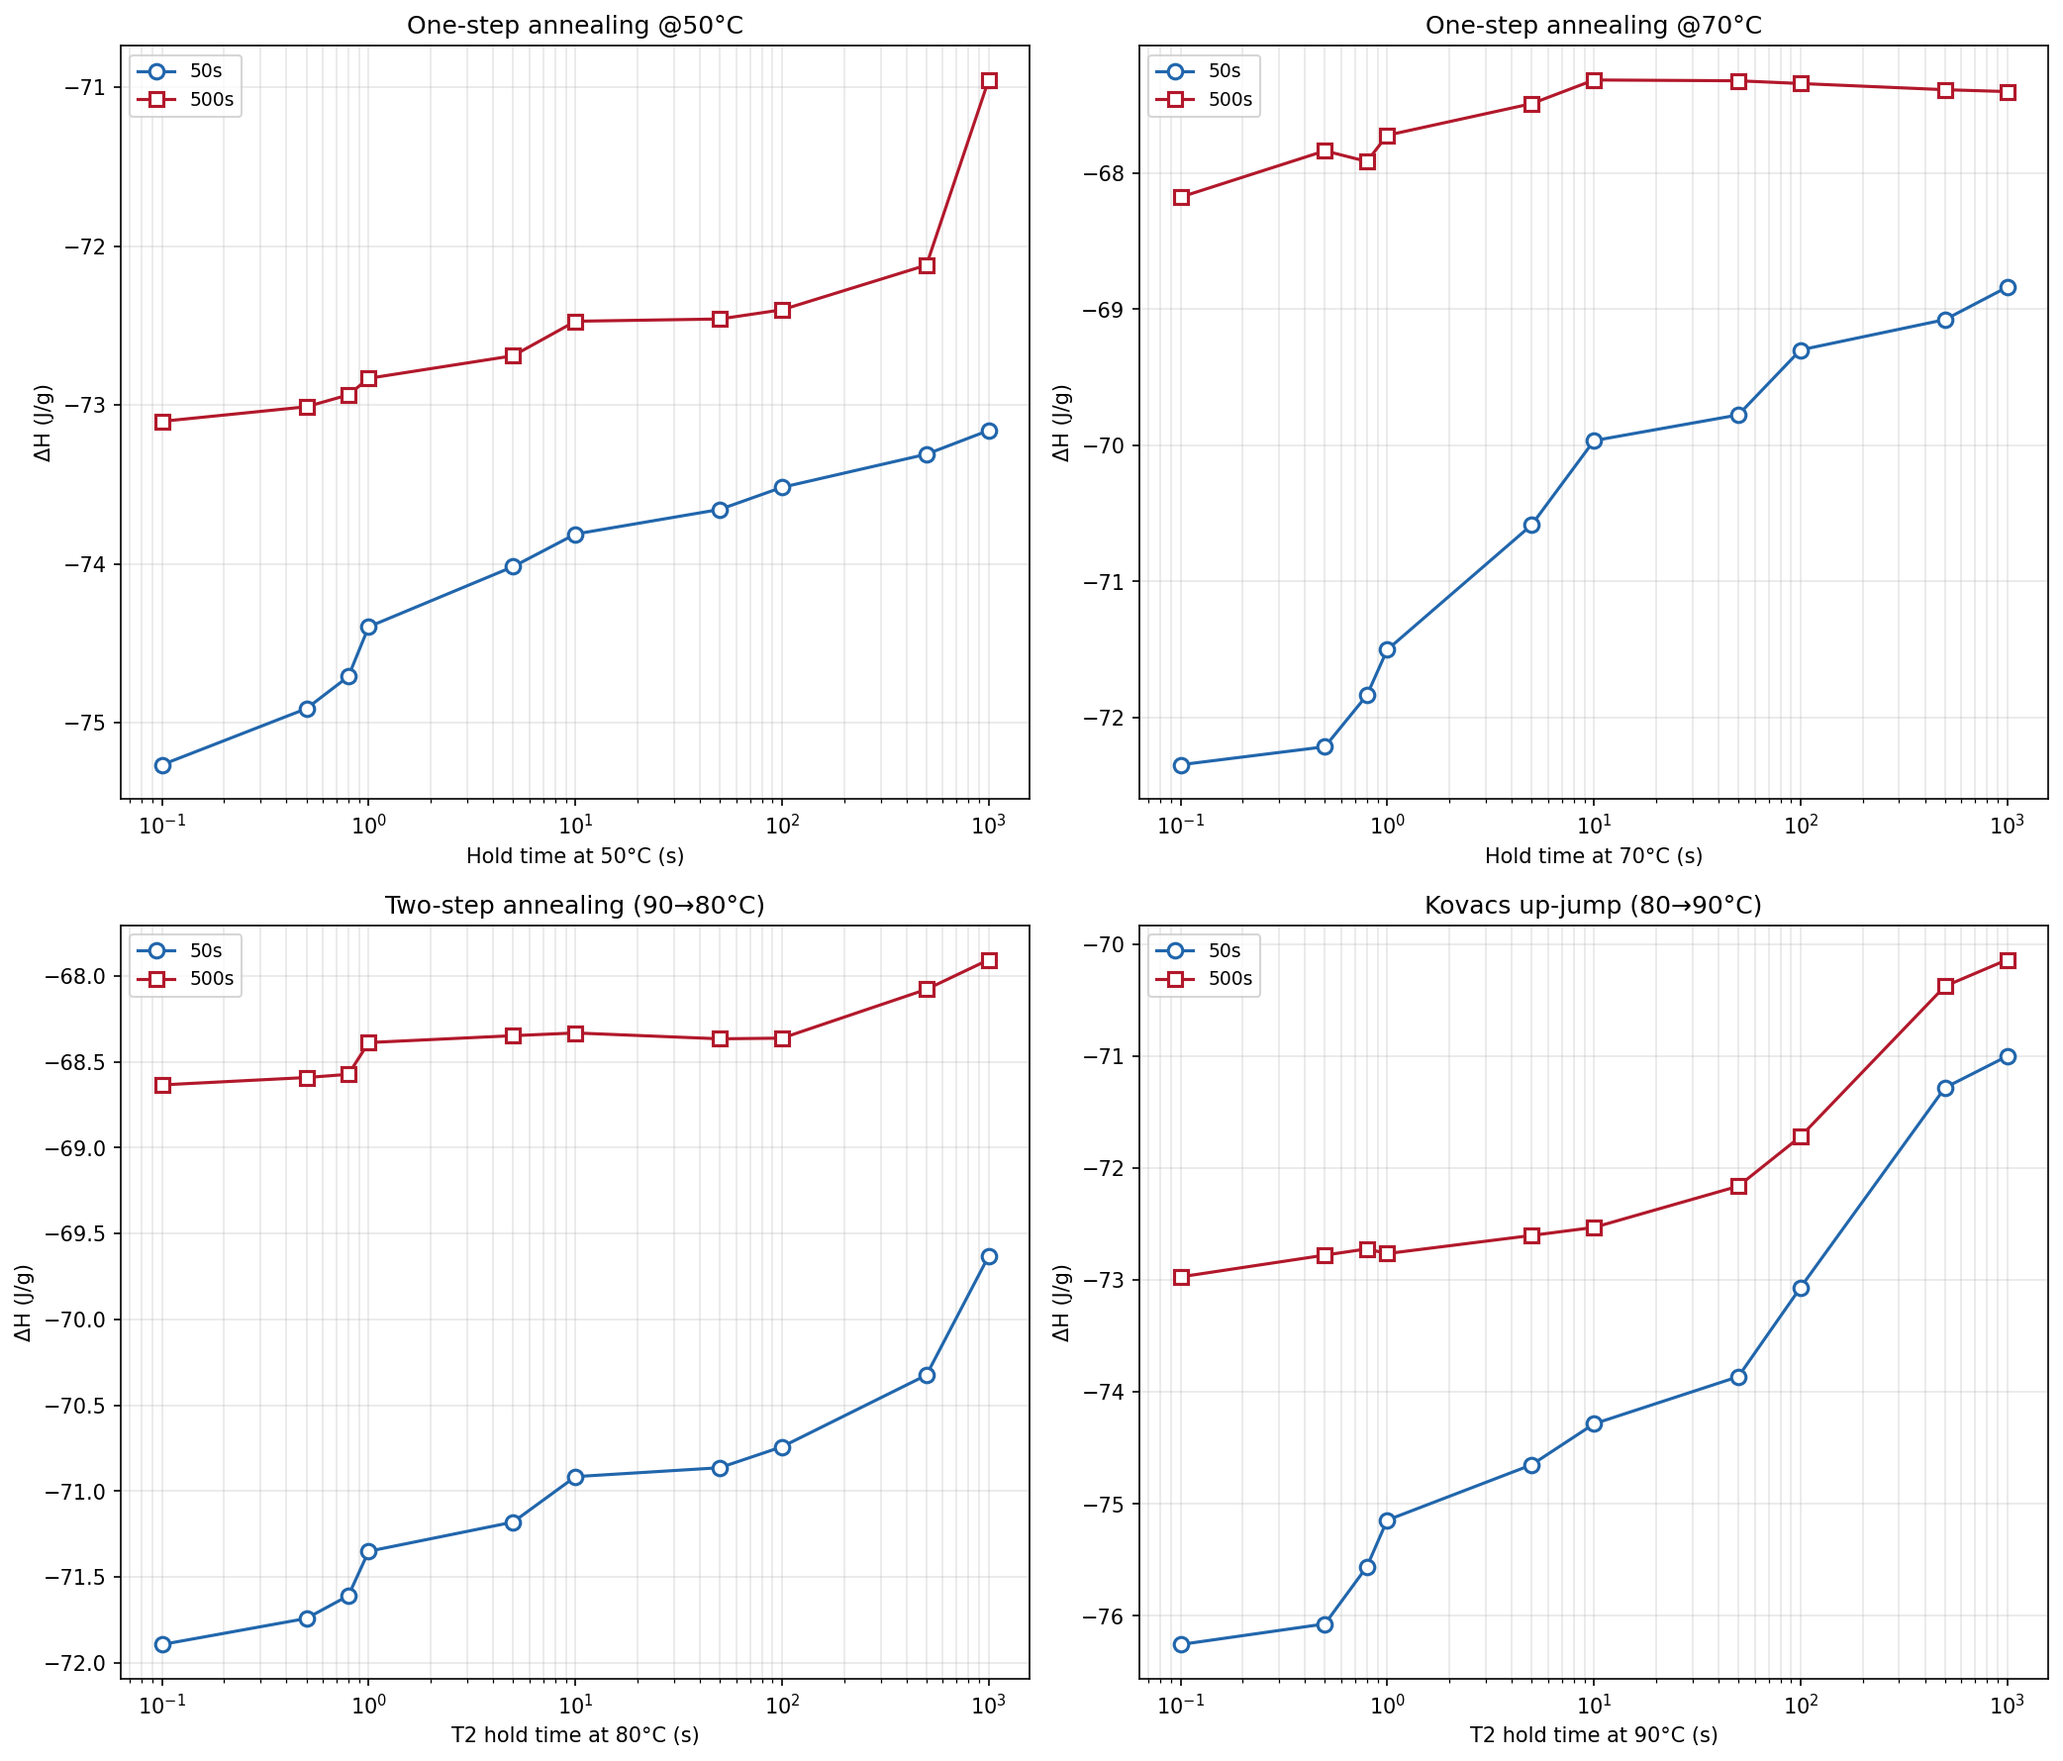
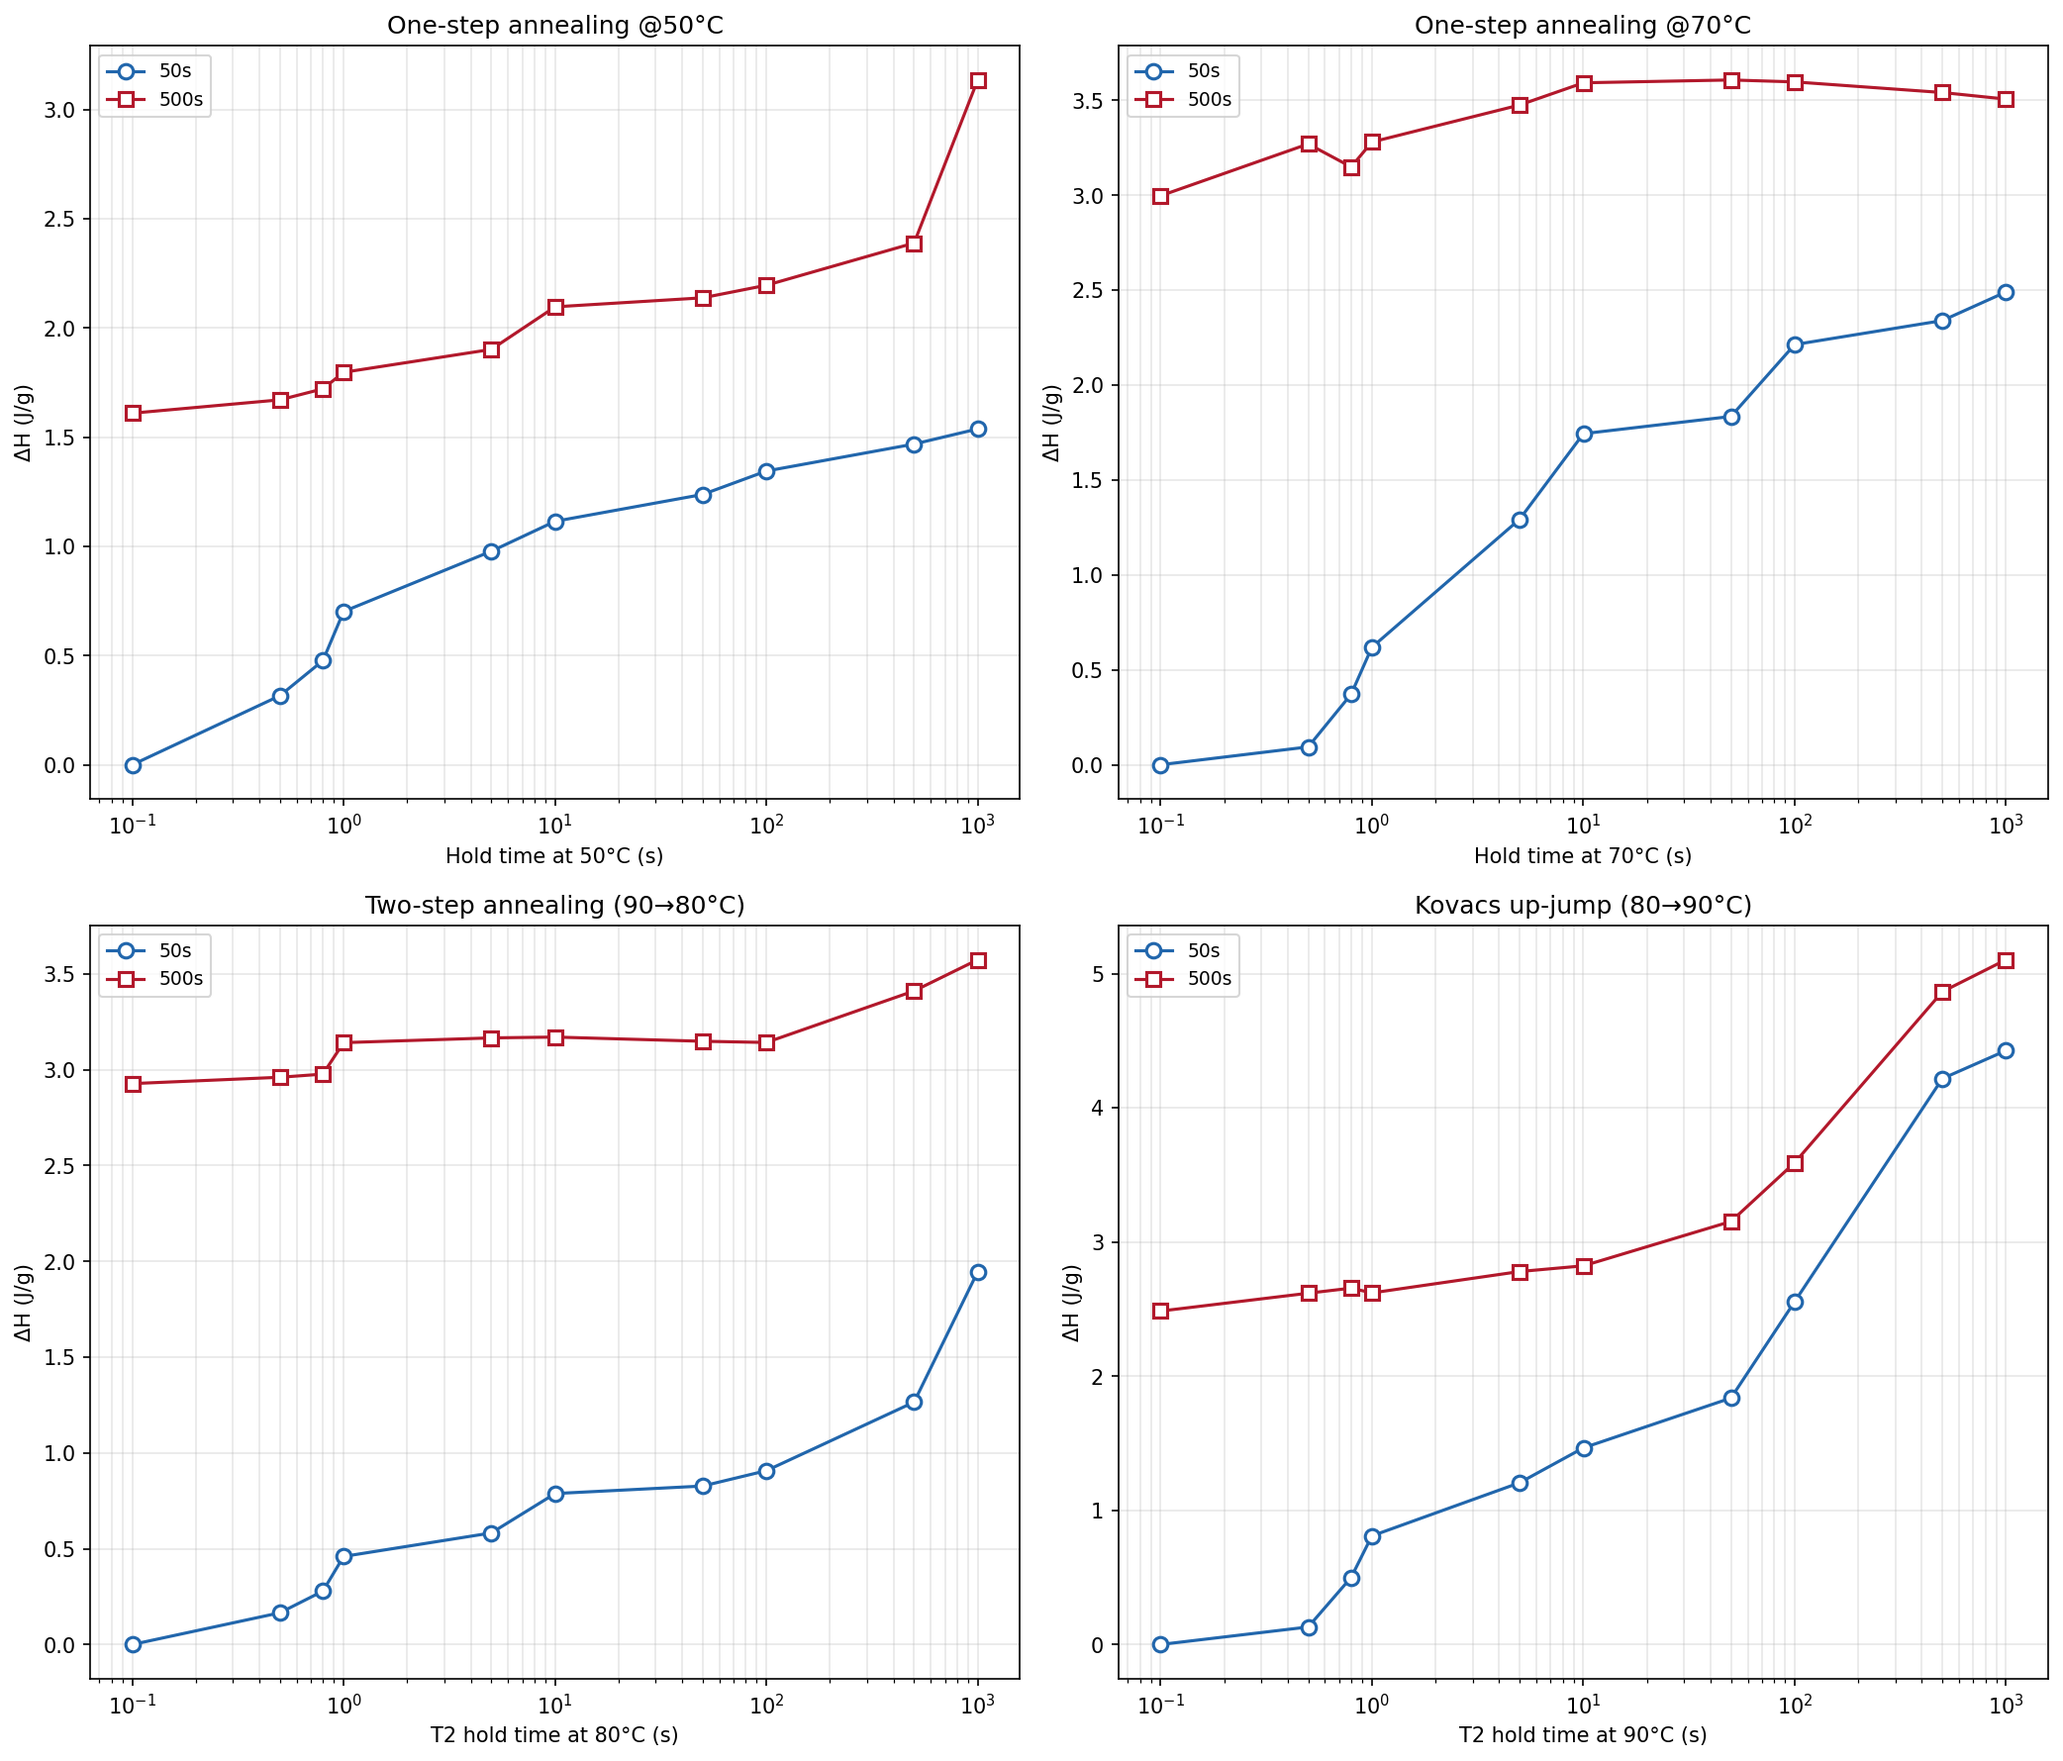
Change integration lower limit: 30→50°C
50°C-T_onset captures Tg region, excludes glassy baseline.
ΔH now correctly increases with annealing time.

diff --git a/src/export_enthalpy.py b/src/export_enthalpy.py
@@ -21,7 +21,7 @@ BETA = HEATING_RATE / 60.0
 DT_DT = 1.0 / BETA
 CONV_FACTOR = DT_DT / (M_SAMPLE * 1000)
 CONV_JG = CONV_FACTOR  # µW·°C → J/g
-T_INT_LOW = 30
+T_INT_LOW = 50
 
 
 def load_dsc_experiment(filename, sheet):
